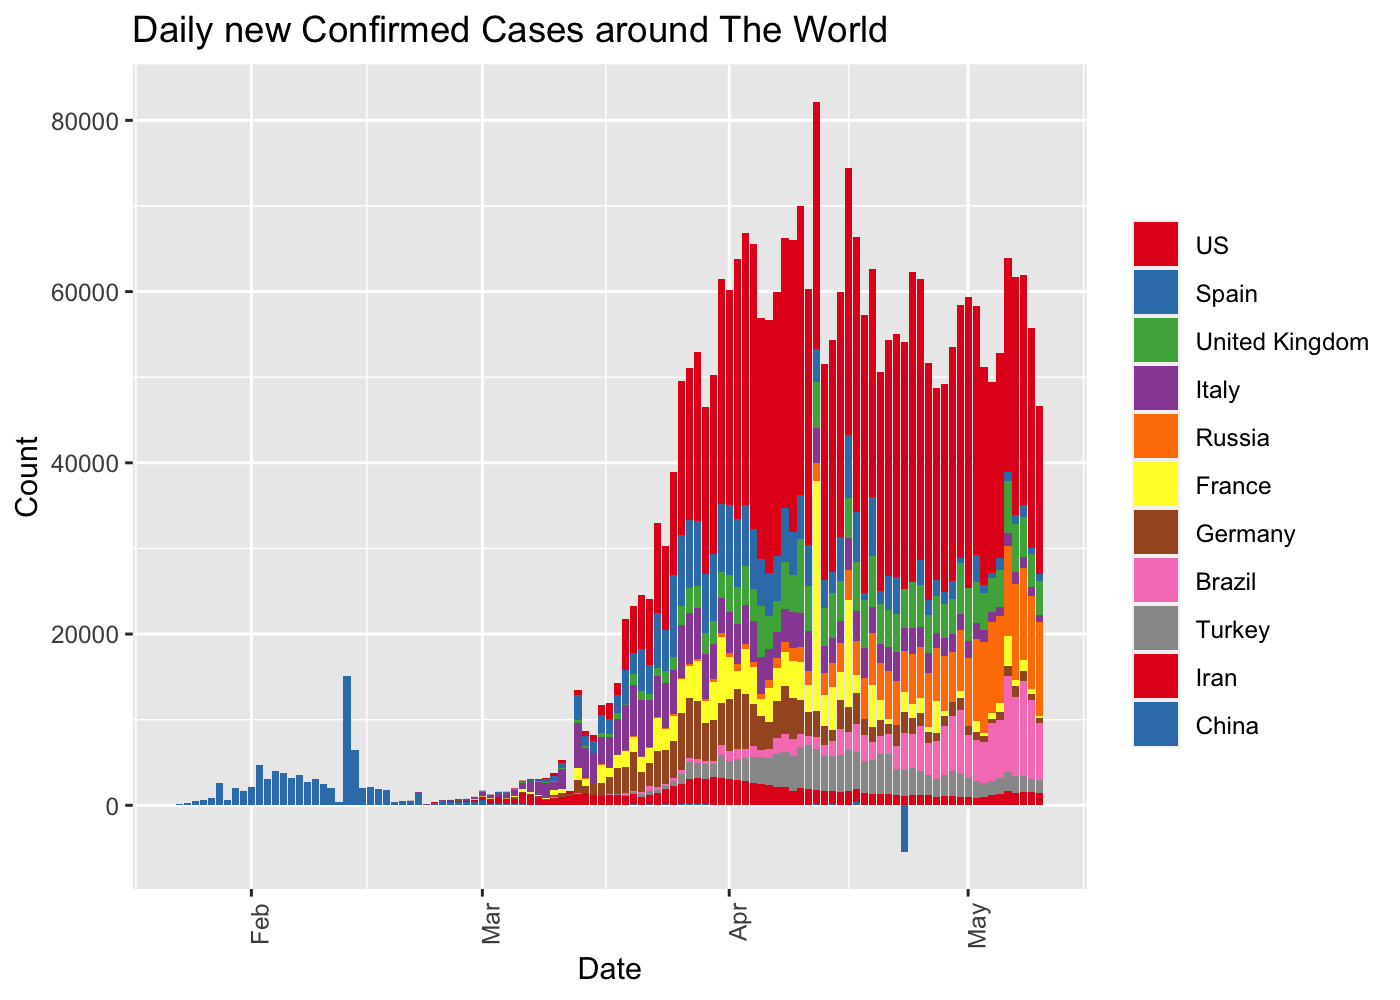
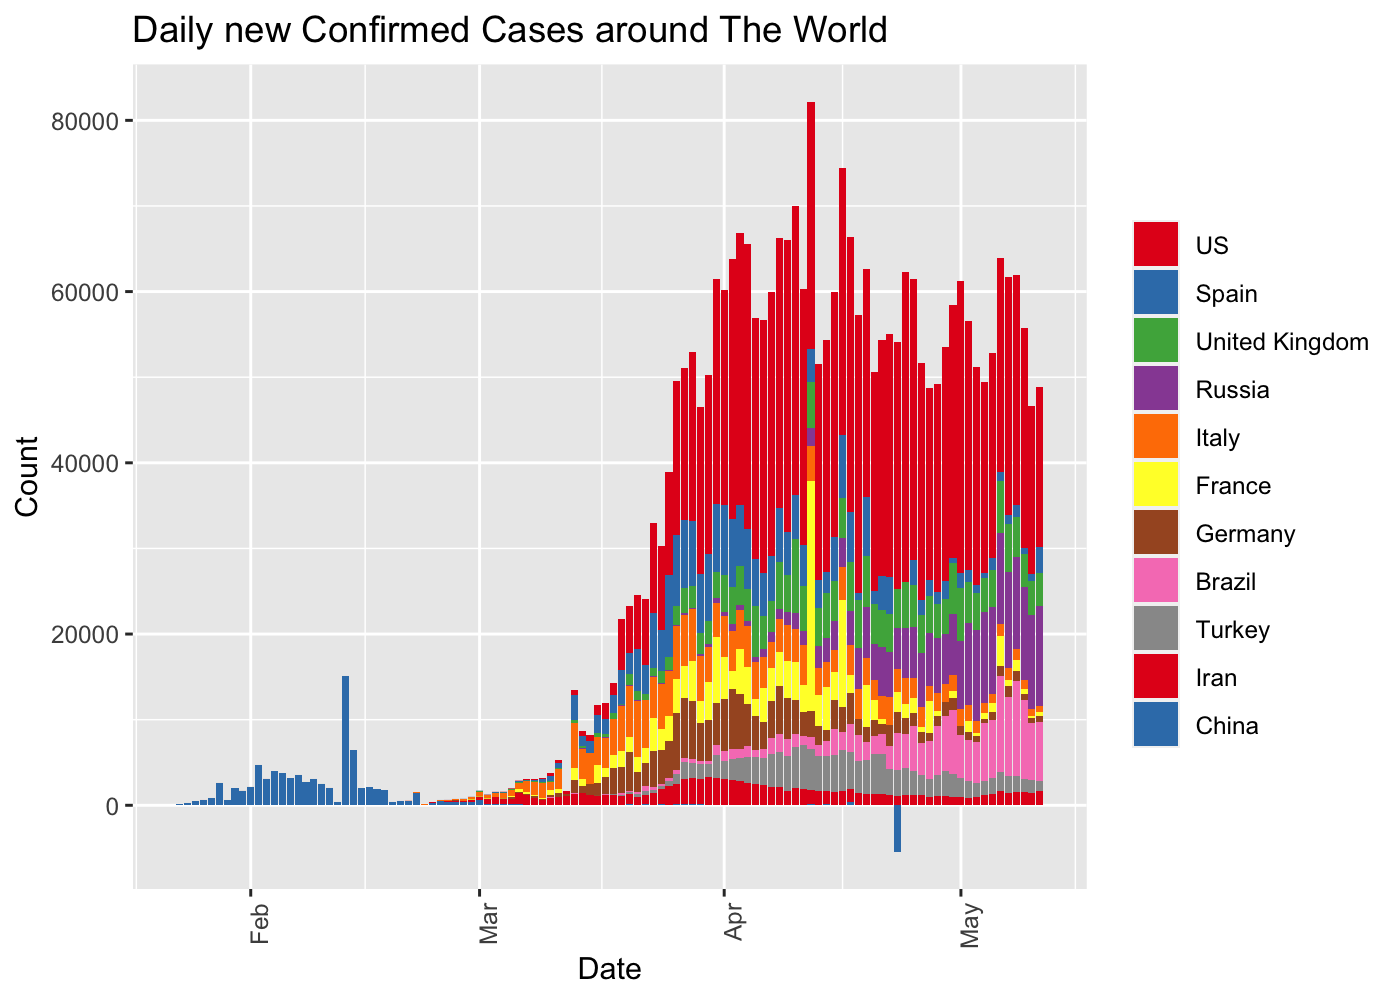
Updated up to 2020-05-11

diff --git a/README.md b/README.md
@@ -90,15 +90,15 @@ library(dplyr)
 ``` r
 data.processor <- COVID19DataProcessor$new(force.download = FALSE)
 dummy <- data.processor$setupData()
-#> INFO  [00:20:32.719]  {stage: data loaded}
+#> INFO  [08:18:29.057]  {stage: data loaded}
 dummy <- data.processor$curate()
 #> Warning in countrycode(x, origin = "country.name", destination = "continent"): Some values were not matched unambiguously: MS Zaandam
-#> INFO  [00:20:35.444]  {stage: consolidated}
-#> INFO  [00:20:36.407]  {stage: Starting first imputation}
-#> INFO  [00:20:36.408] Imputation indicator {indicator: confirmed}
-#> INFO  [00:20:36.455] Imputation indicator {indicator: recovered}
-#> INFO  [00:20:36.557] Imputation indicator {indicator: deaths}
-#> INFO  [00:20:38.009]  {stage: Calculating top countries}
+#> INFO  [08:18:31.306]  {stage: consolidated}
+#> INFO  [08:18:32.125]  {stage: Starting first imputation}
+#> INFO  [08:18:32.126] Imputation indicator {indicator: confirmed}
+#> INFO  [08:18:32.167] Imputation indicator {indicator: recovered}
+#> INFO  [08:18:32.259] Imputation indicator {indicator: deaths}
+#> INFO  [08:18:33.505]  {stage: Calculating top countries}
 current.date <- max(data.processor$data$date)
 
 rg <- ReportGeneratorEnhanced$new(data.processor)
@@ -121,27 +121,27 @@ latam.countries <- sort(c("Mexico",
   arrange(desc(confirmed.inc)) %>%
   filter(confirmed >=10))[1:10,]
 #>           country       date rate.inc.daily confirmed.inc confirmed deaths
-#> 1              US 2020-05-10           0.02         19710   1329260  79526
-#> 2          Russia 2020-05-10           0.06         11012    209688   1915
-#> 3          Brazil 2020-05-10           0.04          6638    162699  11123
-#> 4           India 2020-05-10           0.07          4353     67161   2212
-#> 5  United Kingdom 2020-05-10           0.02          3924    220449  31930
-#> 6            Peru 2020-05-10           0.04          2292     67307   1889
-#> 7    Saudi Arabia 2020-05-10           0.05          1912     39048    246
-#> 8           Chile 2020-05-10           0.06          1647     28866    312
-#> 9        Pakistan 2020-05-10           0.06          1598     30334    659
-#> 10         Mexico 2020-05-10           0.05          1562     35022   3465
+#> 1              US 2020-05-11           0.01         18621   1347881  80682
+#> 2          Russia 2020-05-11           0.06         11656    221344   2009
+#> 3          Brazil 2020-05-11           0.04          6895    169594  11653
+#> 4  United Kingdom 2020-05-11           0.02          3883    224332  32141
+#> 5           India 2020-05-11           0.05          3607     70768   2294
+#> 6           Spain 2020-05-11           0.01          3086    227436  26744
+#> 7    Saudi Arabia 2020-05-11           0.05          1966     41014    255
+#> 8        Pakistan 2020-05-11           0.06          1747     32081    706
+#> 9            Iran 2020-05-11           0.02          1683    109286   6685
+#> 10           Peru 2020-05-11           0.02          1515     68822   1961
 #>    deaths.inc imputation.confirmed
-#> 1         731                     
-#> 2          88                     
-#> 3         467                     
-#> 4         111                     
-#> 5         268                     
-#> 6          75                     
-#> 7           7                     
-#> 8           8                     
-#> 9          23                     
-#> 10        112
+#> 1        1156                     
+#> 2          94                     
+#> 3         530                     
+#> 4         211                     
+#> 5          82                     
+#> 6         123                     
+#> 7           9                     
+#> 8          47                     
+#> 9          45                     
+#> 10         72
 ```
 
 ``` r
@@ -151,27 +151,27 @@ latam.countries <- sort(c("Mexico",
   select(country, date, rate.inc.daily, confirmed.inc, confirmed, deaths, deaths.inc, imputation.confirmed) %>%
   arrange(desc(deaths.inc)))[1:10,]
 #>           country       date rate.inc.daily confirmed.inc confirmed deaths
-#> 1              US 2020-05-10           0.02         19710   1329260  79526
-#> 2          Brazil 2020-05-10           0.04          6638    162699  11123
-#> 3         Ecuador 2020-05-10           0.02           488     29559   2127
-#> 4  United Kingdom 2020-05-10           0.02          3924    220449  31930
-#> 5          Canada 2020-05-10           0.02          1173     70091   4991
-#> 6           Italy 2020-05-10           0.00           802    219070  30560
-#> 7           Spain 2020-05-10           0.00           772    224350  26621
-#> 8          Mexico 2020-05-10           0.05          1562     35022   3465
-#> 9           India 2020-05-10           0.07          4353     67161   2212
-#> 10         Russia 2020-05-10           0.06         11012    209688   1915
+#> 1              US 2020-05-11           0.01         18621   1347881  80682
+#> 2          Brazil 2020-05-11           0.04          6895    169594  11653
+#> 3          France 2020-05-11           0.00           453    177547  26646
+#> 4  United Kingdom 2020-05-11           0.02          3883    224332  32141
+#> 5           Italy 2020-05-11           0.00           744    219814  30739
+#> 6          Canada 2020-05-11           0.02          1173     71264   5115
+#> 7           Spain 2020-05-11           0.01          3086    227436  26744
+#> 8          Mexico 2020-05-11           0.04          1305     36327   3573
+#> 9          Russia 2020-05-11           0.06         11656    221344   2009
+#> 10        Germany 2020-05-11           0.00           697    172576   7661
 #>    deaths.inc imputation.confirmed
-#> 1         731                     
-#> 2         467                     
-#> 3         410                     
-#> 4         268                     
-#> 5         168                     
-#> 6         165                     
-#> 7         143                     
-#> 8         112                     
-#> 9         111                     
-#> 10         88
+#> 1        1156                     
+#> 2         530                     
+#> 3         263                     
+#> 4         211                     
+#> 5         179                     
+#> 6         124                     
+#> 7         123                     
+#> 8         108                     
+#> 9          94                     
+#> 10         92
 ```
 
 ``` r
@@ -224,8 +224,6 @@ rg$ggplotCountriesLines(field = "rate.inc.daily", log.scale = TRUE)
 
 ``` r
 rg$ggplotTopCountriesPie()
-#> Scale for 'fill' is already present. Adding another scale for 'fill', which
-#> will replace the existing scale.
 ```
 
 <img src="man/figures/README-unnamed-chunk-8-1.png" width="100%" />
